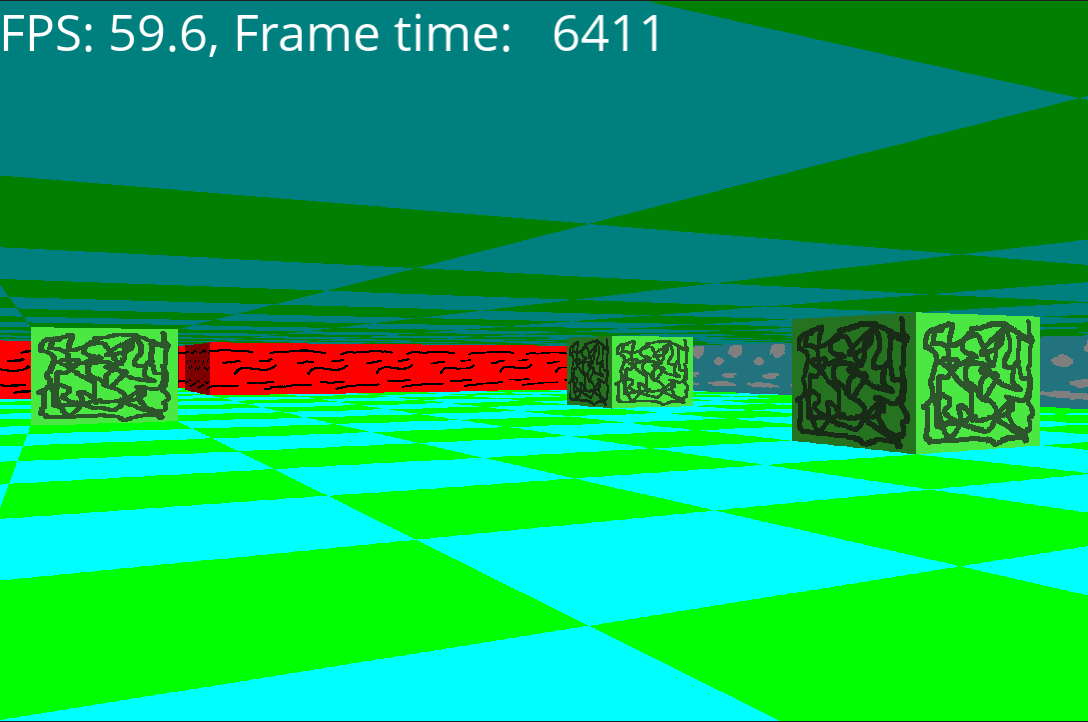
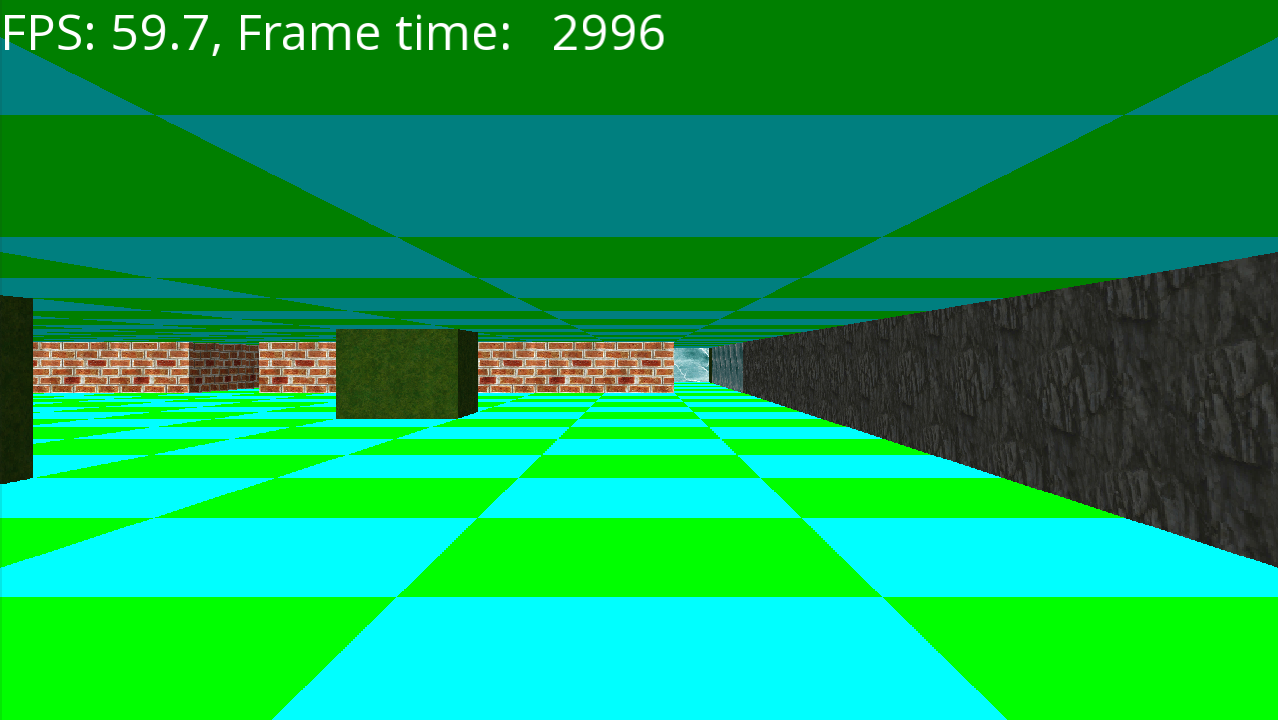
Use SuperTuxKart textures in low res for sexy 90s graphics

diff --git a/README.md b/README.md
@@ -3,11 +3,13 @@ Simple raycaster using SFML
 
 ![Screenshot](screenshot.png)
 
-Currently just 1 file(src/main.cpp), but planning to add more features and if it gets large I'll split it up.
+Just 1 file (scr/main.cpp) with a novel approach to raycasting, sending line data to the GPU, using SFML.
 
-I based this on the raycasting tutorial at http://lodev.org/cgtutor/raycasting.html
-I was inspired after seeing https://github.com/TheMozg/awk-raycaster on the Github popular projects list. I thought if someone can make a raycaster in less than 700 lines of AWK code, I could do it with C++ and SFML.
+I based this on the raycasting tutorial at [lodev](http://lodev.org/cgtutor/raycasting.html)
+I was inspired after seeing [awk-raycaster](https://github.com/TheMozg/awk-raycaster) on the Github popular projects list. I thought if someone can make a raycaster in less than 700 lines of AWK code, I could do it with C++ and SFML.
 
 Released under GNU GPLv3, see also [LICENSE](LICENSE). Though some code is taken from the raycasting tutorial and copyright by Lode Vandevenne. Its license is in [LICENSE.tutorial](LICENSE.tutorial). I've improved and SFML-ified many parts, but the basic calculations often use the same code.
 
 The project uses the Open Sans font, which is under the [Apache license](data/font/Apache License.txt).
+
+Textures from the [SuperTuxKart](https://supertuxkart.net/) project, downloaded from [OpenGameArt](http://opengameart.org/content/supertuxkart-basic-sameless-texture-pack) and released under [CC-BY-SA 3.0](https://creativecommons.org/licenses/by-sa/3.0/legalcode)
